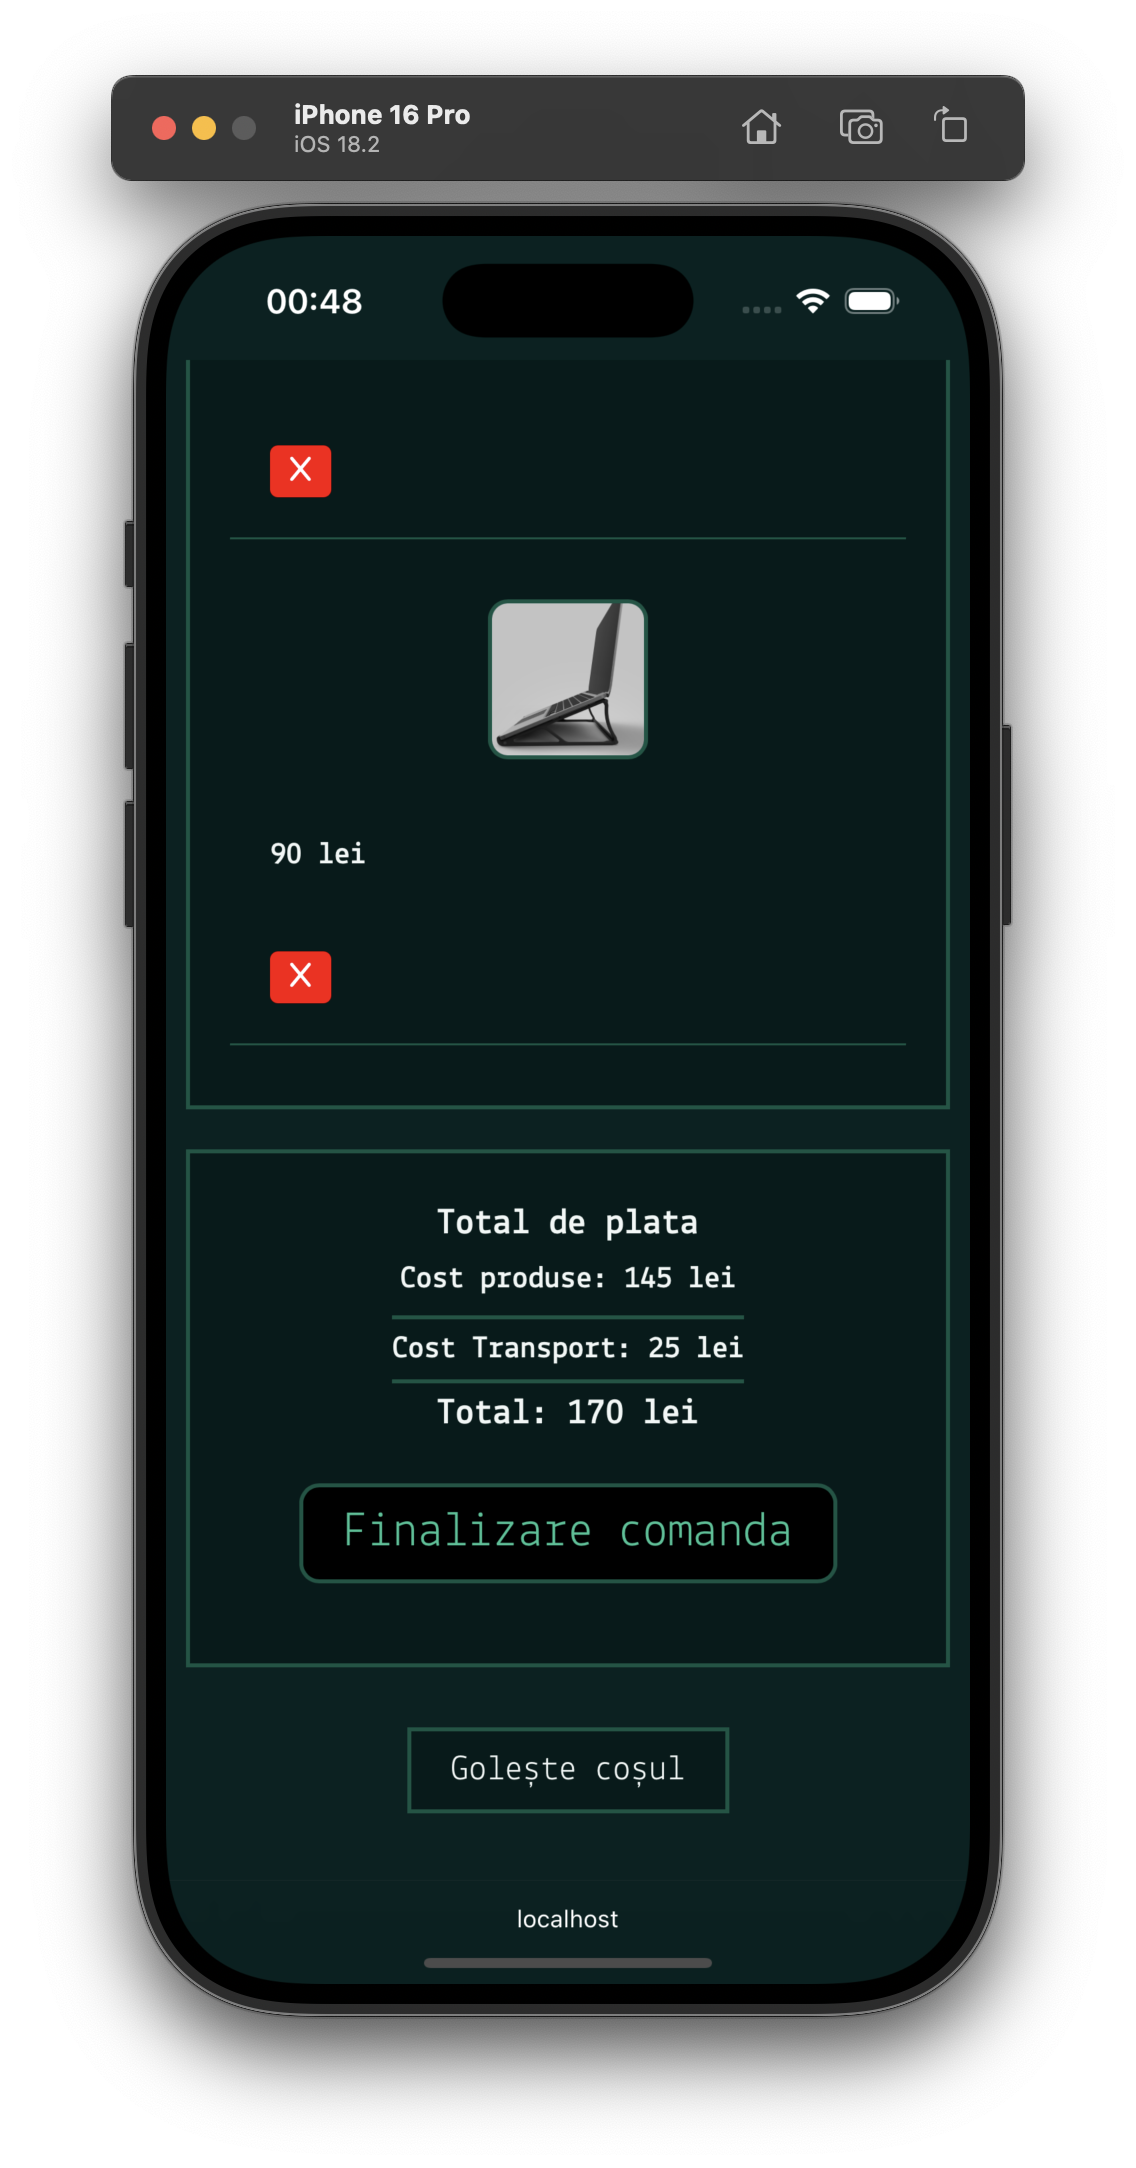
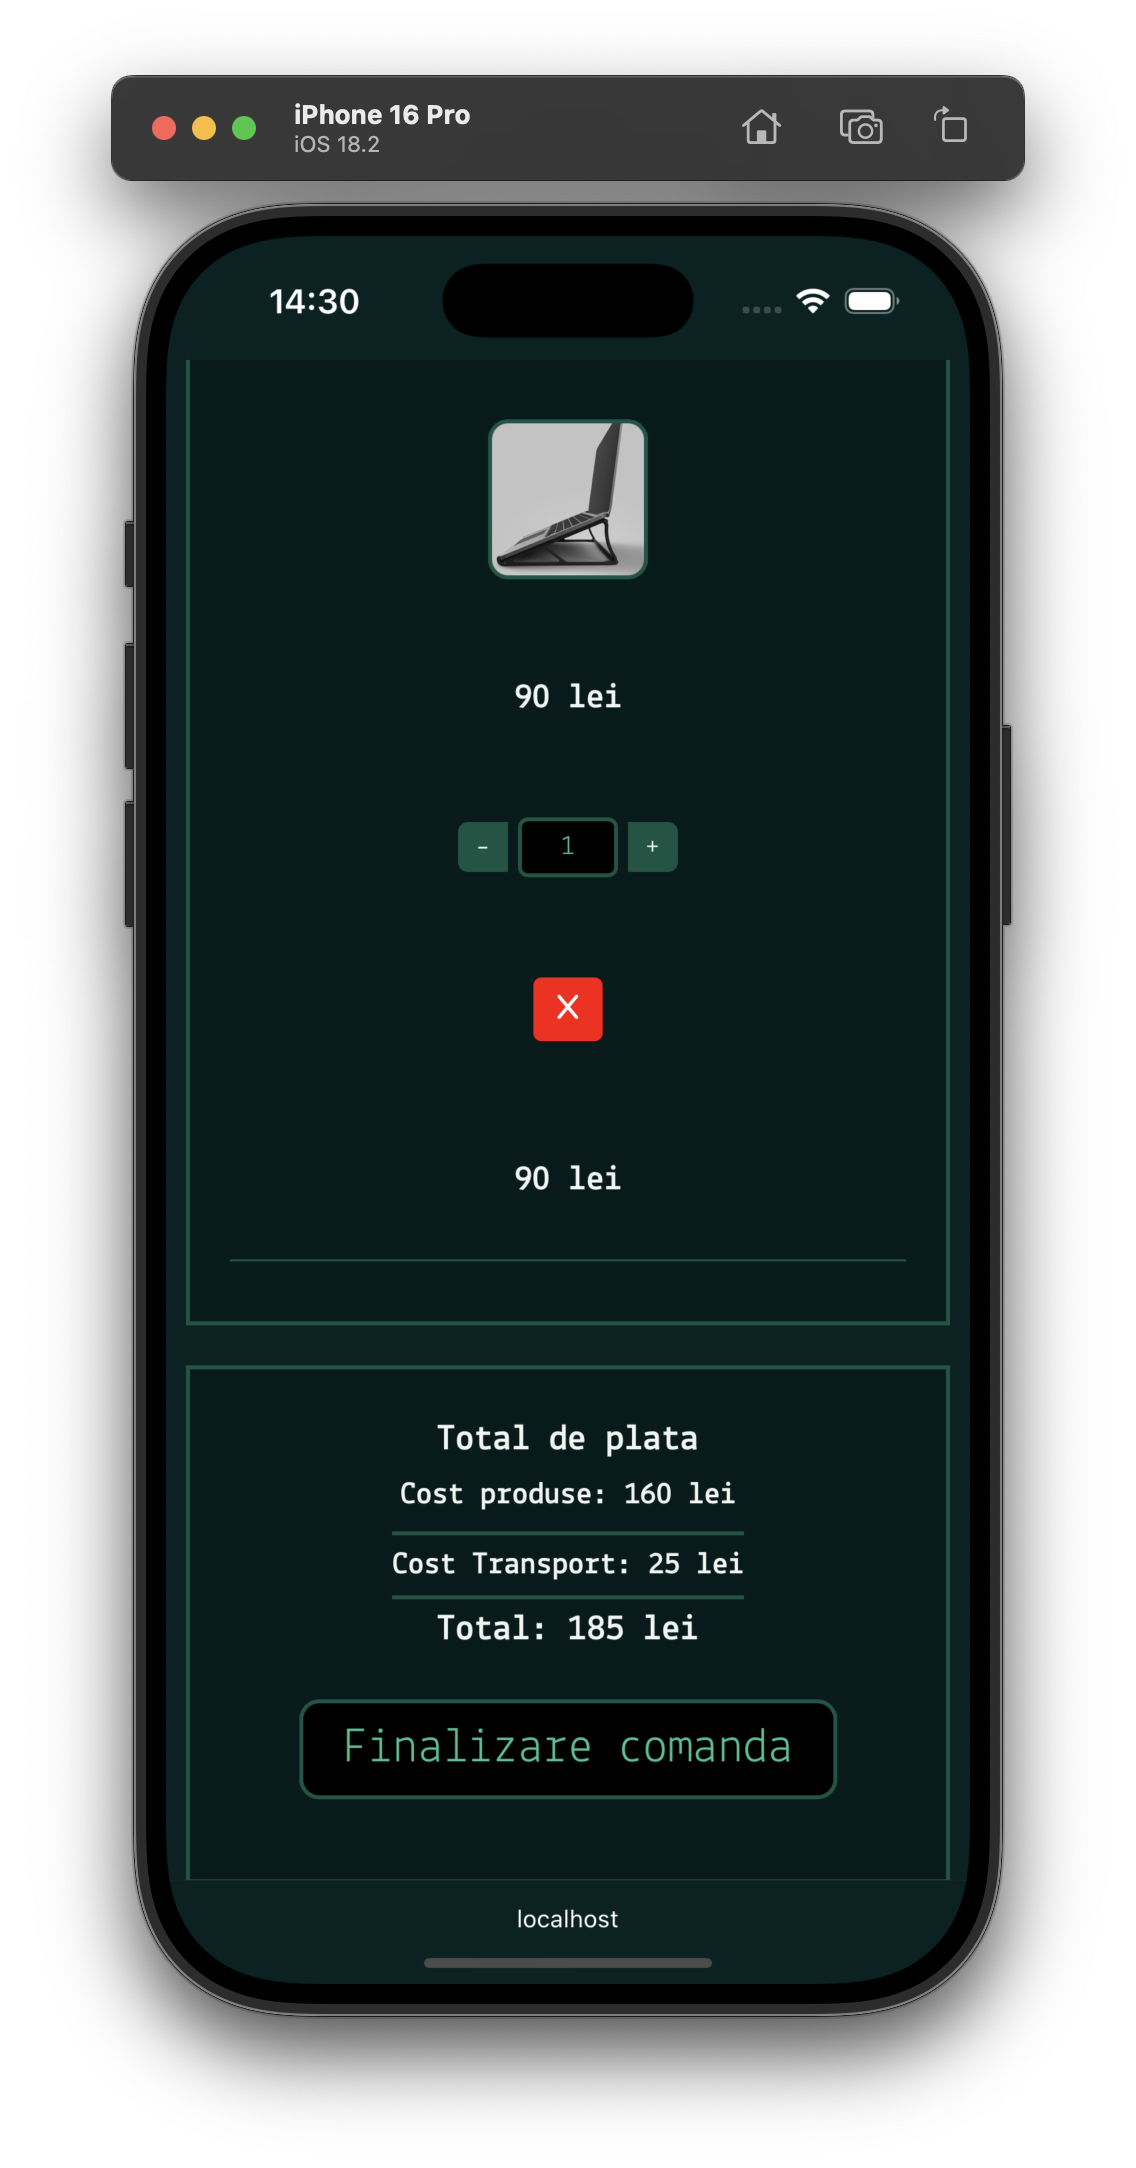
Mobile shopping cart design

diff --git a/Client/src/shopping-cart/shopping-cart.component.css b/Client/src/shopping-cart/shopping-cart.component.css
@@ -219,19 +219,58 @@ a {
     td {
         display: flex;
         justify-content: space-between;
-        padding: 10px;
+        padding: 5px;
         font-size: 16px;
     }
 
     .imagine_tabel img {
         width: 80px; /* Ajustăm dimensiunea imaginii */
     }
+  /* Centrare preț pe mobil */
+  .cost_tabel,.total_tabel {
+    display: flex;
+    justify-content: center;
+    align-items: center;
+    text-align: center;
+    margin: 10px 0;
+    font-size: 18px; /* Ajustează dimensiunea fontului pentru o vizibilitate mai bună */
+  }
+  /* Stiluri pentru cantitate și buton de ștergere pe mobil */
+  .cantitate_tabel {
+    display: flex; /* Activează afișarea în modul mobil */
+    justify-content: center;
+    align-items: center;
+    margin-top: 0;
+  }
 
-    /* Ascundem câmpurile care nu sunt necesare pe mobil */
-    .cantitate_tabel,
-    .total_tabel {
-        display: none;
-    }
+  .quantity-wrapper {
+    display: flex;
+    justify-content: center;
+    align-items: center;
+    margin: 0 auto;
+  }
+
+  .btn-minus,
+  .btn-plus {
+    width: 25px;
+    height: 25px;
+    font-size: 16px;
+    margin: 0 5px;
+  }
+
+  .quantity-input {
+    width: 40px;
+    height: 25px;
+    font-size: 14px;
+    text-align: center;
+  }
+
+  .btn-remove {
+    display: block; /* Afișează butonul pe linie separată */
+    margin: 10px auto;
+    font-size: 14px;
+    padding: 8px 12px;
+  }
     .clear-shopping-cart{
         display: flex;
         justify-content: center;

diff --git a/Server/obj/Debug/net8.0/Server.AssemblyInfo.cs b/Server/obj/Debug/net8.0/Server.AssemblyInfo.cs
@@ -13,7 +13,7 @@ using System.Reflection;
 [assembly: System.Reflection.AssemblyCompanyAttribute("Server")]
 [assembly: System.Reflection.AssemblyConfigurationAttribute("Debug")]
 [assembly: System.Reflection.AssemblyFileVersionAttribute("1.0.0.0")]
-[assembly: System.Reflection.AssemblyInformationalVersionAttribute("1.0.0+f7256d957a8cac6a7708d38731ebfe7bdc1dc5a2")]
+[assembly: System.Reflection.AssemblyInformationalVersionAttribute("1.0.0+df9da04846e79f2b8c8a11b6a29b93977b80e1ce")]
 [assembly: System.Reflection.AssemblyProductAttribute("Server")]
 [assembly: System.Reflection.AssemblyTitleAttribute("Server")]
 [assembly: System.Reflection.AssemblyVersionAttribute("1.0.0.0")]
